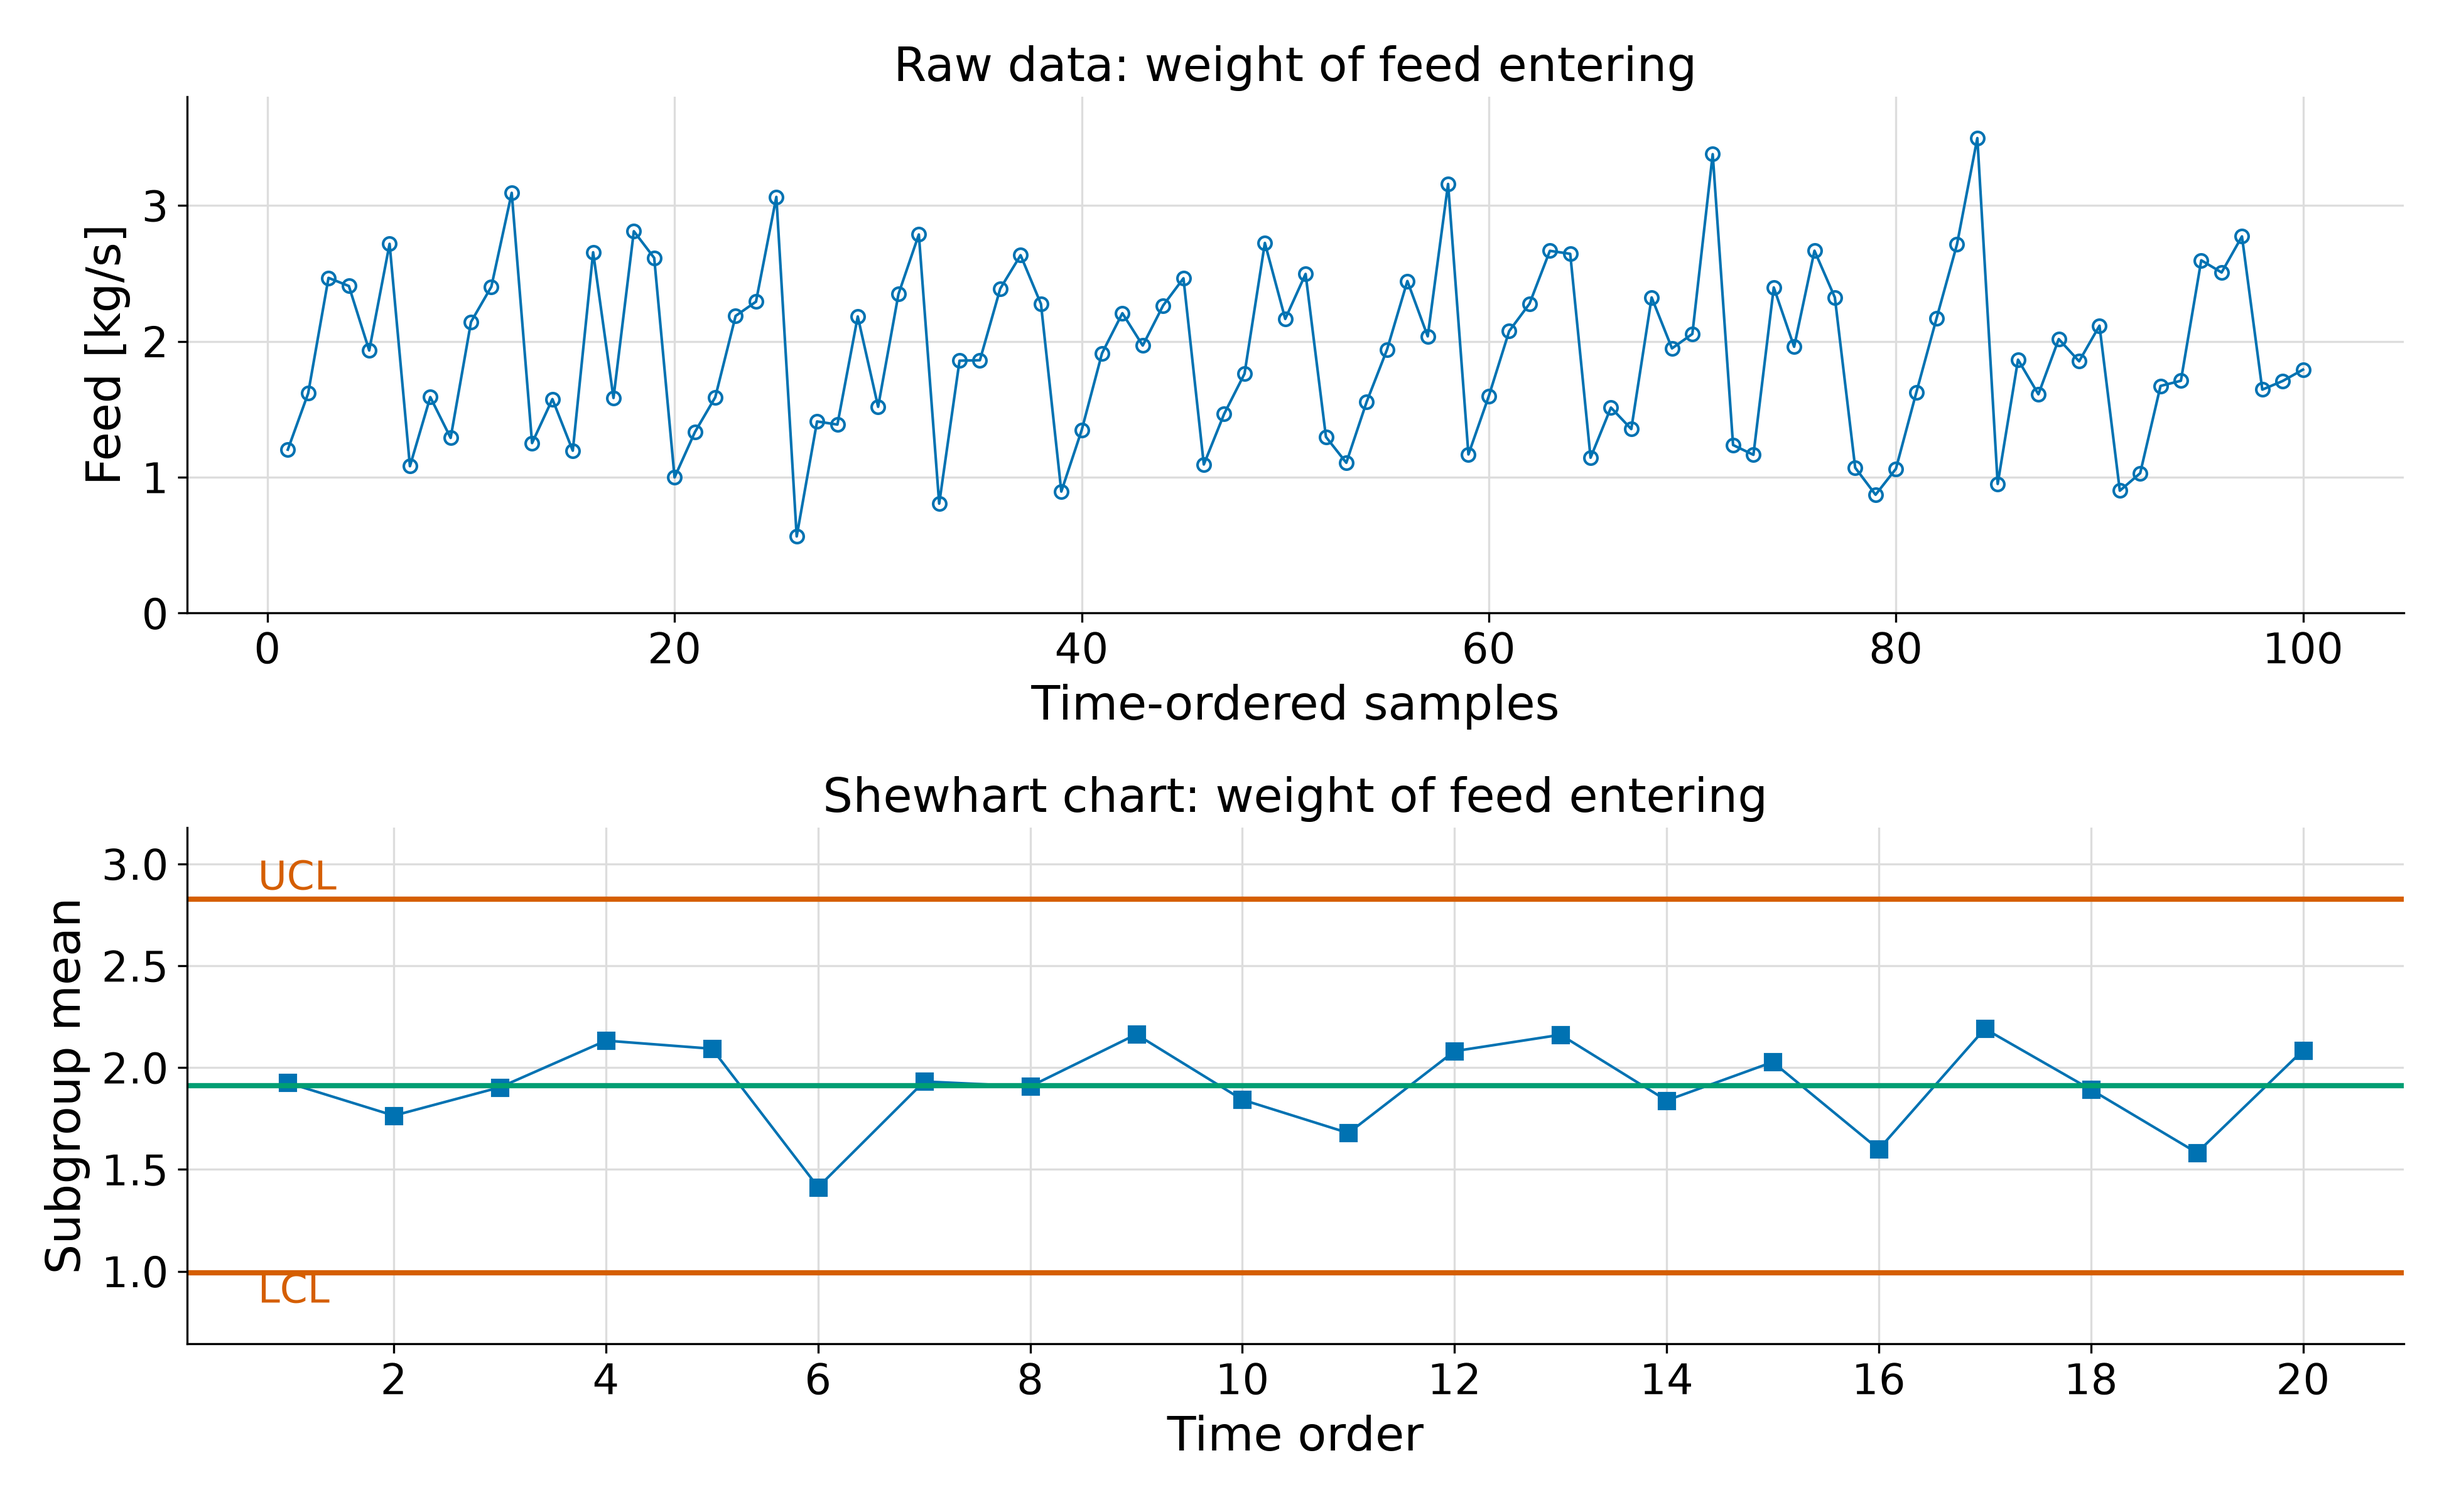
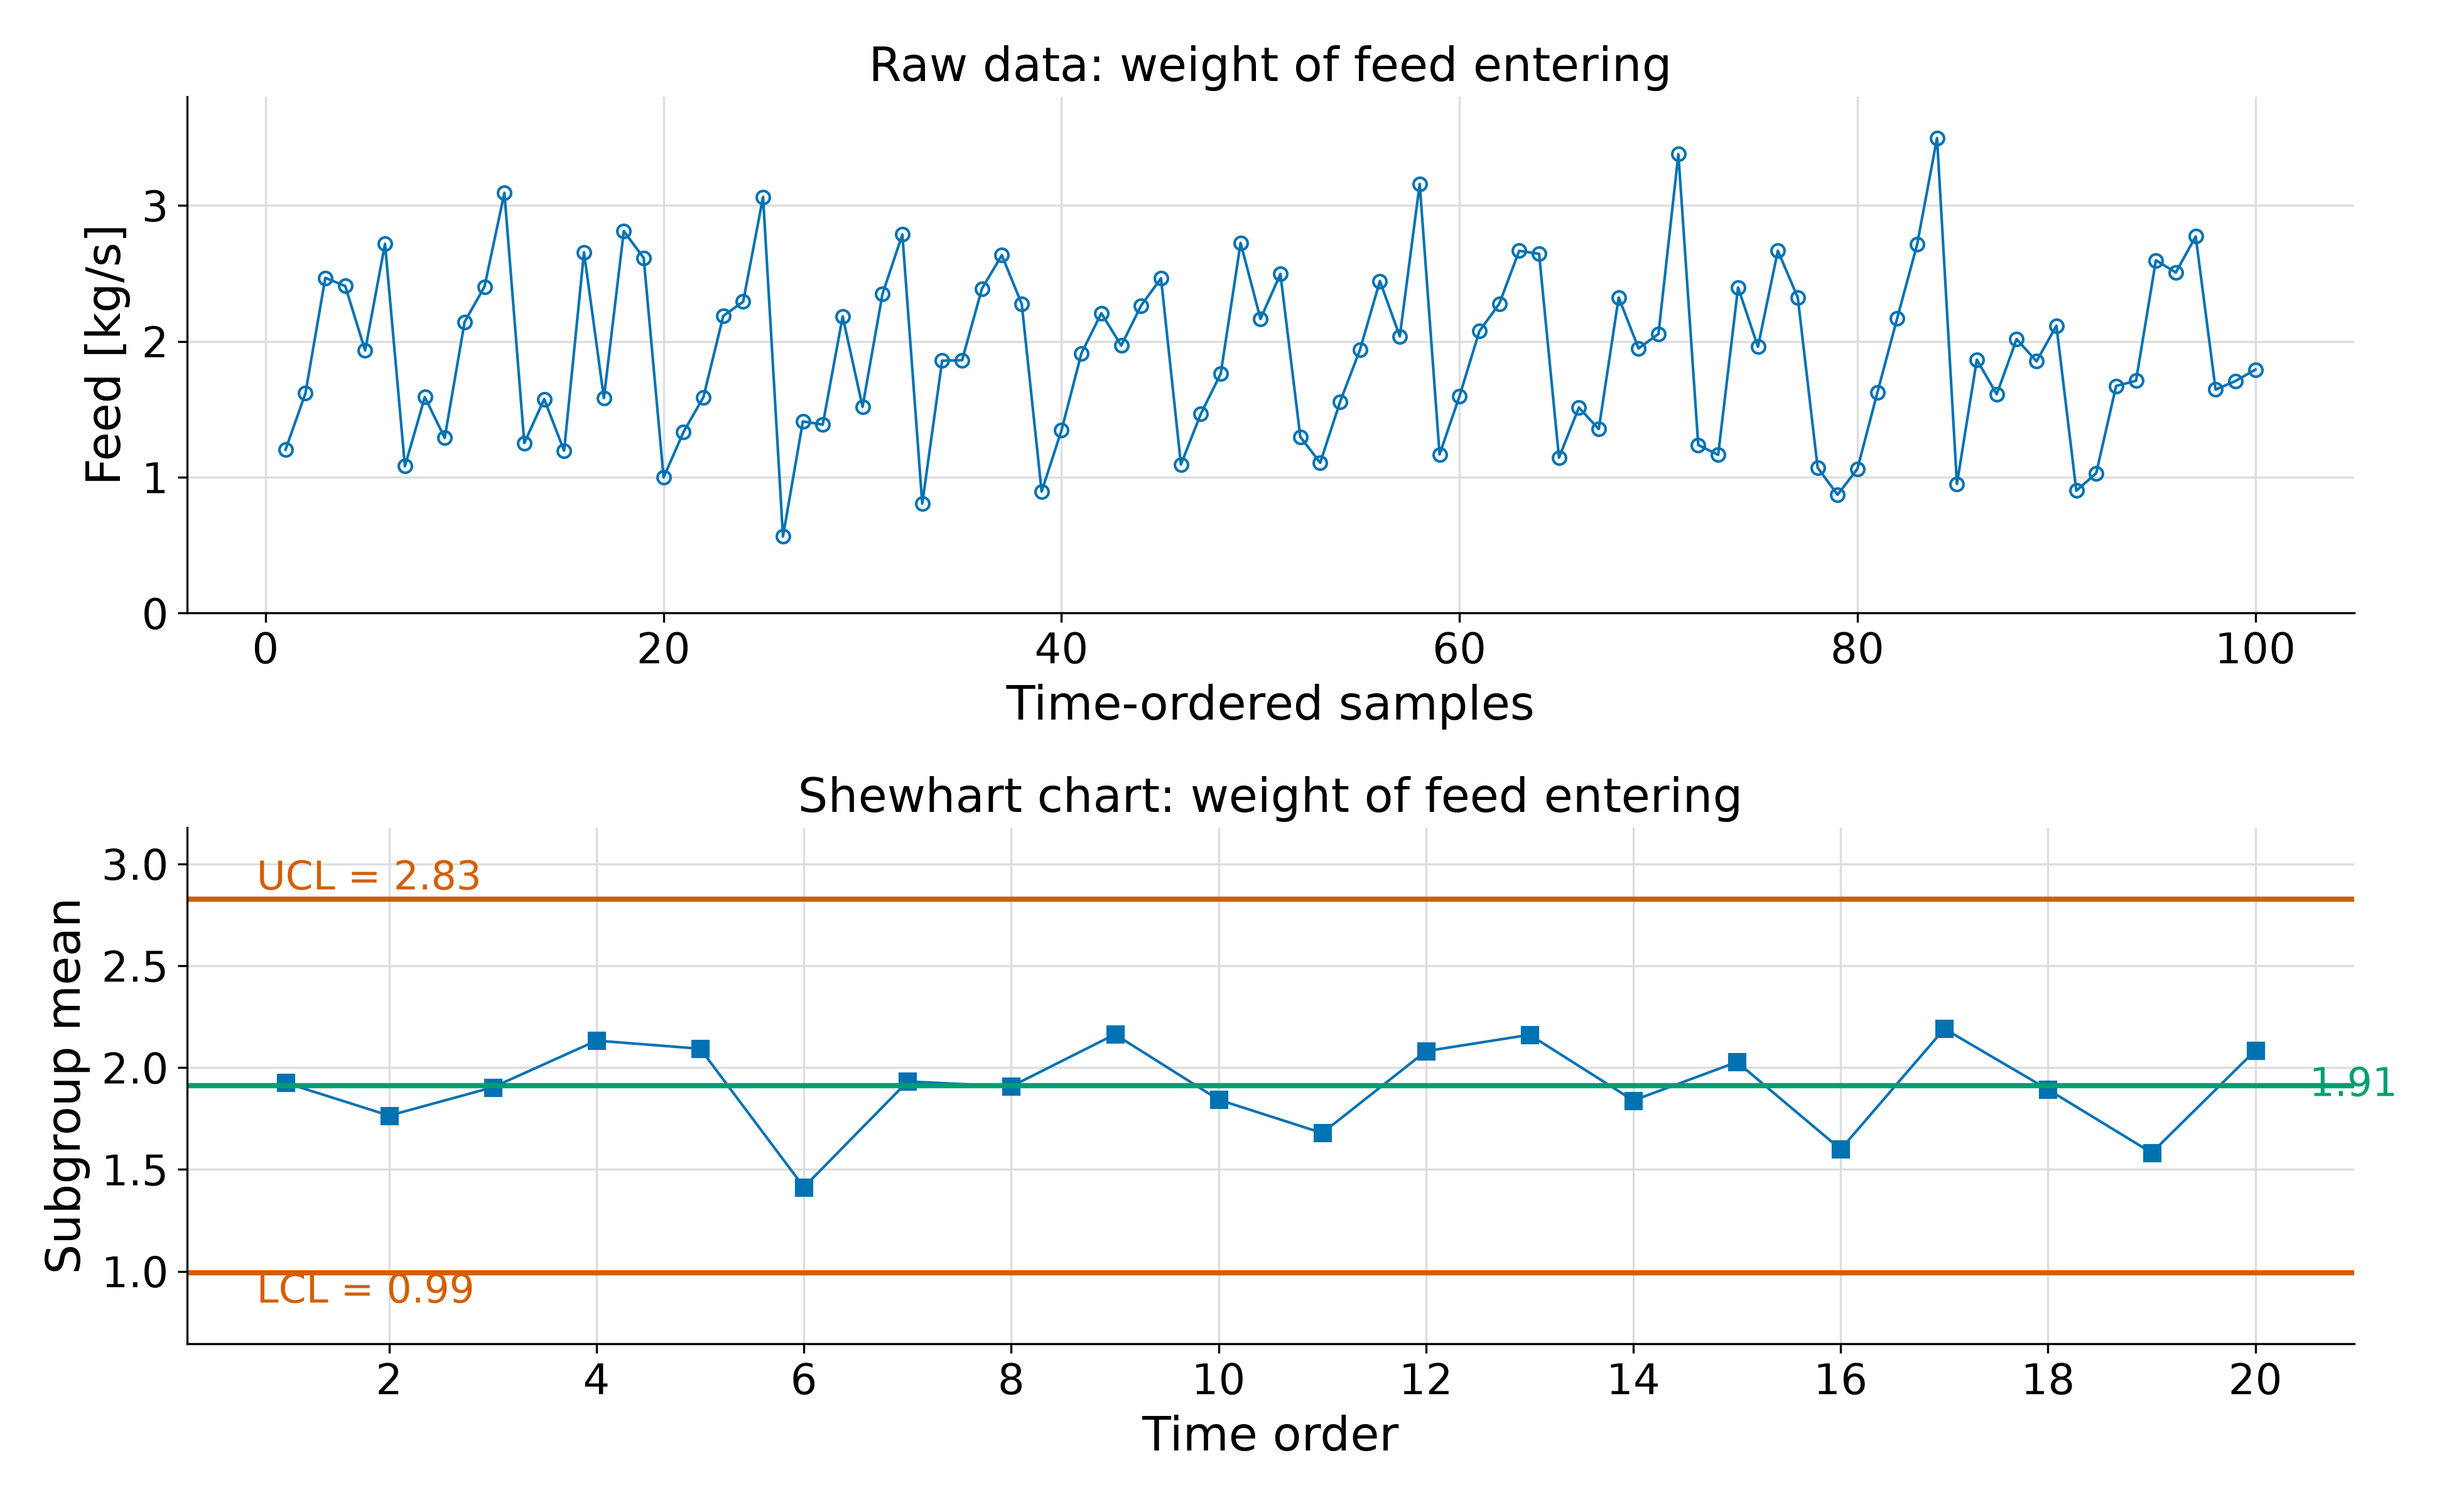
Put the cycling chart's computed limits on the chart
The recorded series behind this figure is gone, so the committed data
is a reconstruction from what the question states. Given the choice
between agreeing with a picture whose data no longer exists and
agreeing with its own arithmetic, the figure now does the latter: the
limits are whatever the plotted series gives, and they are printed on
the chart so a reader can reproduce them.

For the record, the original image measures LCL 0.96, centre 1.94, UCL
2.91; this reconstruction gives 0.99, 1.91 and 2.83. Both leave all
twenty subgroup means inside the limits while the raw series visibly
cycles, which is the point the solution makes.

The docstring now spells out the subgroup calculation: twenty
consecutive non-overlapping groups of five, centre line the mean of the
twenty subgroup means, limits at 3 * mean(s) / (a_n * sqrt(n)) with
a_n = 0.9400 at n = 5.

diff --git a/monitoring/monitoring_exercise_figures.py b/monitoring/monitoring_exercise_figures.py
@@ -405,6 +405,23 @@ def monitoring_chart_cycling(outdir: pathlib.Path) -> None:
     question describes: 100 consecutive measurements one minute apart,
     cycling in a saw-tooth between roughly 1 and 3 kg/s about a target of
     2 kg/s. Substitute the recorded data here if it turns up.
+
+    The control limits are computed from the series actually plotted,
+    and are not tuned to reproduce the ones in the original image (which
+    measure at 0.96, 1.94 and 2.91 against the 0.99, 1.91 and 2.83 here).
+    Matching the picture would mean choosing the amplitude and noise to
+    hit numbers read off a bitmap, which would make the chart agree with
+    a figure whose data no longer exists while disagreeing with its own.
+    The values are printed on the chart so a reader can check them
+    against a run of this script.
+
+    Subgroups are the twenty consecutive, non-overlapping groups of five
+    that the solution text describes. For each, the mean and the standard
+    deviation with one degree of freedom removed. The centre line is the
+    mean of the twenty subgroup means; the limits are three standard
+    errors either side, using the mean within-subgroup standard deviation
+    corrected for bias, ``3 * mean(s) / (a_n * sqrt(n))``, with
+    ``a_n = 0.9400`` at ``n = 5``.
     """
     rng = np.random.default_rng(4)
     n = 100
@@ -439,8 +456,14 @@ def monitoring_chart_cycling(outdir: pathlib.Path) -> None:
     ax.plot(np.arange(1, len(xbar) + 1), xbar, "-s", color=BLUE, markersize=6,
             linewidth=1)
     draw_limits(ax, lcl, centre, ucl)
-    ax.text(0.6, ucl, " UCL", color=VERMILLION, va="bottom", fontsize=15)
-    ax.text(0.6, lcl, " LCL", color=VERMILLION, va="top", fontsize=15)
+    # Show the values, not just the names: they come out of the data
+    # plotted above, so a reader can reproduce them.
+    ax.text(0.6, ucl, f" UCL = {ucl:.2f}", color=VERMILLION, va="bottom",
+            fontsize=15)
+    ax.text(0.6, lcl, f" LCL = {lcl:.2f}", color=VERMILLION, va="top",
+            fontsize=15)
+    ax.text(len(xbar) + 0.4, centre, f" {centre:.2f}", color=GREEN,
+            va="center", fontsize=15)
     ax.set_title("Shewhart chart: weight of feed entering")
     ax.set_xlabel("Time order")
     ax.set_ylabel("Subgroup mean")
